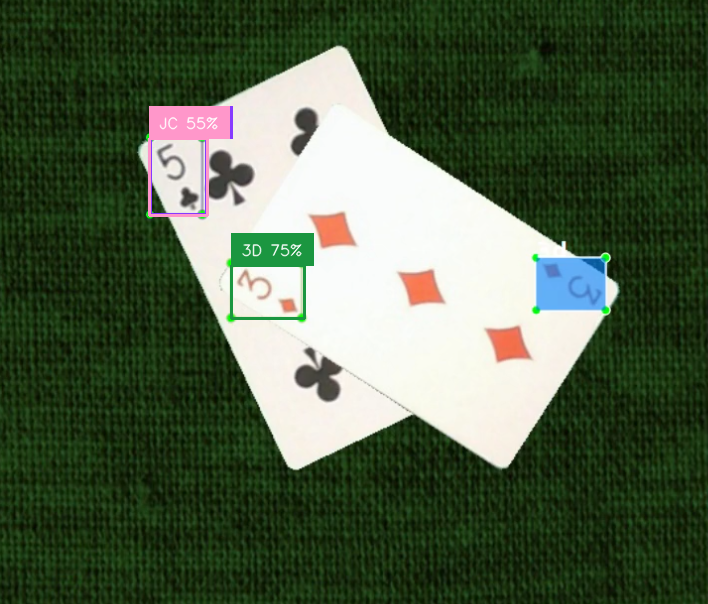
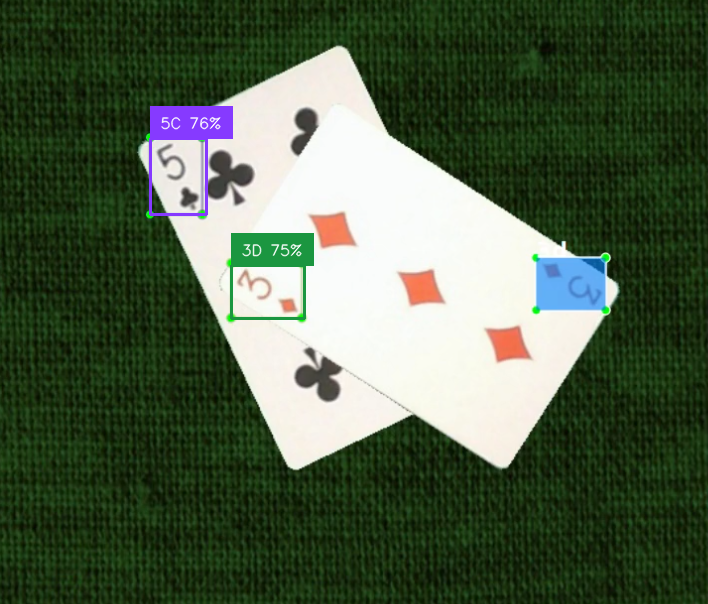
implement clean box using iou

Changed region(s): [[0.1864, 0.149, 0.3418, 0.3576]]

diff --git a/detect_cards.py b/detect_cards.py
@@ -36,6 +36,35 @@ def resolve_image() -> Path:
     )
 
 
+def intersection_over_union(a, b) -> float:
+    a_left, a_top = a.x - a.width / 2, a.y - a.height / 2
+    a_right, a_bottom = a.x + a.width / 2, a.y + a.height / 2
+    b_left, b_top = b.x - b.width / 2, b.y - b.height / 2
+    b_right, b_bottom = b.x + b.width / 2, b.y + b.height / 2
+
+    shared_width = min(a_right, b_right) - max(a_left, b_left)
+    shared_height = min(a_bottom, b_bottom) - max(a_top, b_top)
+    if shared_width <= 0 or shared_height <= 0:
+        return 0.0
+
+    shared = shared_width * shared_height
+    union = a.width * a.height + b.width * b.height - shared
+    return shared / union
+
+
+def clean_boxes(predictions, overlap_limit=0.5):
+    ordered = sorted(predictions, key=lambda card: card.confidence, reverse=True)
+    kept = []
+    for card in ordered:
+        if any(
+            intersection_over_union(card, previous) >= overlap_limit
+            for previous in kept
+        ):
+            continue
+        kept.append(card)
+    return kept
+
+
 image_path = resolve_image()
 image = cv2.imread(str(image_path))
 if image is None:
@@ -47,11 +76,11 @@ model = get_model(
 )
 
 result = model.infer(image, confidence=0.5)[0]
+detected = list(result.predictions)
+cards = clean_boxes(detected)
+result.predictions = cards
 detections = sv.Detections.from_inference(result)
-labels = [
-    f"{card.class_name} {card.confidence:.0%}"
-    for card in result.predictions
-]
+labels = [f"{card.class_name} {card.confidence:.0%}" for card in cards]
 
 annotated = sv.BoxAnnotator().annotate(scene=image.copy(), detections=detections)
 annotated = sv.LabelAnnotator().annotate(
@@ -63,8 +92,12 @@ result_text = image_path.with_name(f"{image_path.stem}_result.txt")
 if not cv2.imwrite(str(result_image), annotated):
     raise SystemExit(f"Could not save image: {result_image}")
 
-lines = [f"Image: {image_path}", f"Detected {len(result.predictions)} card(s)"]
-for card in result.predictions:
+lines = [
+    f"Image: {image_path}",
+    f"Detected {len(detected)} card(s)",
+    f"Kept {len(cards)} after removing stacked boxes",
+]
+for card in cards:
     lines.append(
         f"{card.class_name}: {card.confidence:.1%} "
         f"| center=({card.x:.0f}, {card.y:.0f}) "
